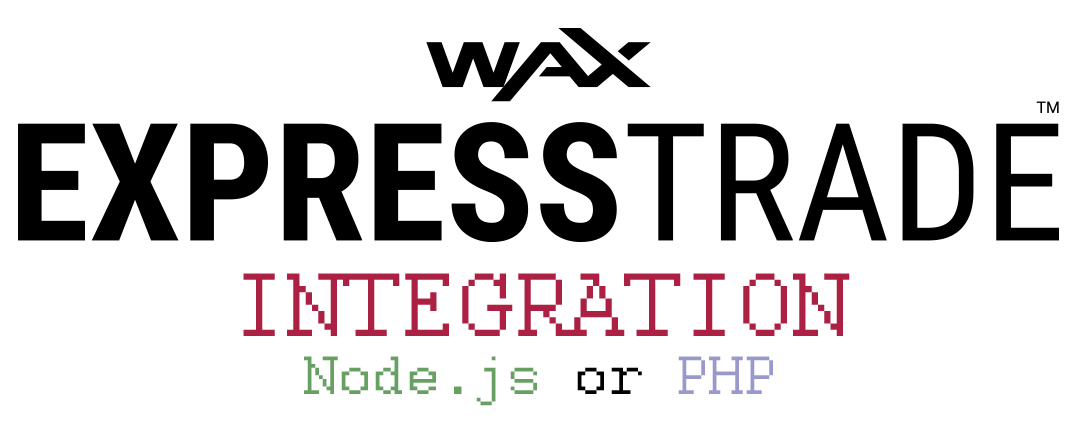
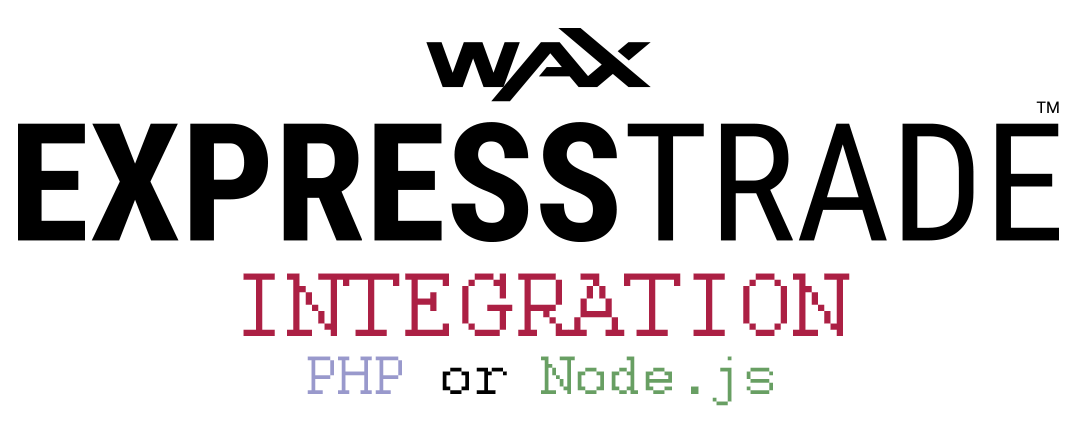
Initial commit

Changed region(s): [[0.275, 0.8014, 0.7333, 0.9201]]

diff --git a/README.md b/README.md
@@ -5,7 +5,7 @@
 <table>
 	<tr>
 		<td align = "center">
-			In this tutorial, you will learn how to integrate <a href = "https://github.com/OPSkins/trade-opskins-api">WAX ExpressTrade</a> into your website using <a href = "#nodejs">Node.js</a> or <a href = "#php">PHP</a>!
+			In this tutorial, you will learn how to integrate <a href = "https://github.com/OPSkins/trade-opskins-api">WAX ExpressTrade</a> into your website using <a href = "#php">PHP</a> or <a href = "#nodejs">Node.js</a>!
 		</td>
 	</tr>
 	<tr>
